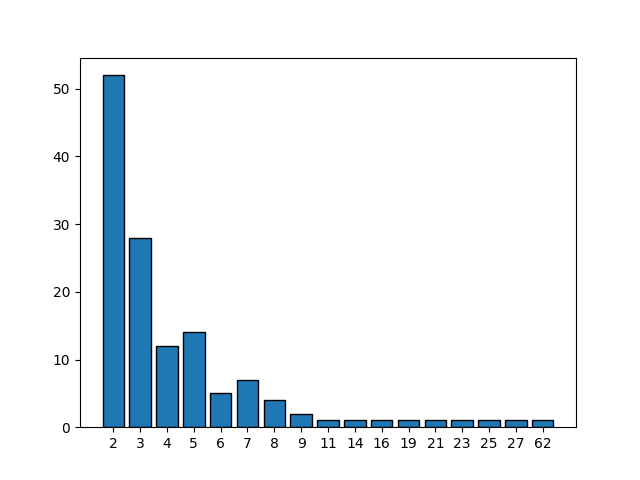
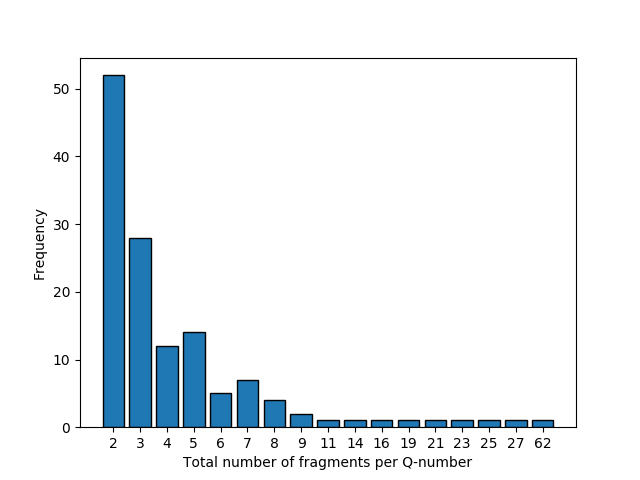
.

Changed region(s): [[0.2812, 0.9375, 0.75, 1.0], [0.0312, 0.4375, 0.0938, 0.5938]]

diff --git a/4_Model_Preparation/Goal-task/Create_Pairs/main.py b/4_Model_Preparation/Goal-task/Create_Pairs/main.py
@@ -6,13 +6,13 @@ from bin import *
 def main():
 
 	# Path to sorted csv of plate numbers
-	Path_Q = '/Users/stephannijdam/Desktop/Temp_Q/Q_Number_csv/Q-numbers.csv'
+	Path_Q = '/Users/stephannijdam/Desktop/DSS/4_Model_Preparation/Goal-task/Q_Number_csv/Q-numbers.csv'
 
 	# Path to sorted csv of Q-numbers
-	Path_P = '/Users/stephannijdam/Desktop/Temp_Q/Q_Number_csv/Plate.csv'
+	Path_P = '/Users/stephannijdam/Desktop/DSS/4_Model_Preparation/Goal-task/Q_Number_csv/Plate.csv'
 
 	# Path to sorted and splitted testing data 
-	Path_SP = '/Users/stephannijdam/Desktop/Temp_Q/Testing_Data_Paths/Testing.npy'	
+	Path_SP = '/Users/stephannijdam/Desktop/DSS/4_Model_Preparation/Goal-task/Testing_Data_Paths/Testing.npy'	
 
 	# Filter and bin the belonging fragment patches into one array 
 	bin_Q(Path_Q, Path_P, Path_SP)

diff --git a/4_Model_Preparation/Goal-task/Create_Pairs/bin.py b/4_Model_Preparation/Goal-task/Create_Pairs/bin.py
@@ -172,8 +172,11 @@ def plot_Q(ls_frag_bin):
                 cnt += 1
         y.append(cnt)
 
-    fig = plt.figure()
-    plt.bar(str_x, y, edgecolor='black', linewidth=1.0)
+    # Creating the figure and axis 
+    fig, axs = plt.subplots(1, 1)
+    axs.bar(str_x, y, edgecolor='black', linewidth=1.0)
+    axs.set_xlabel('Total number of fragments per Q-number')
+    axs.set_ylabel('Frequency')
 
     plt.savefig('q_dist.png')
     plt.close()
